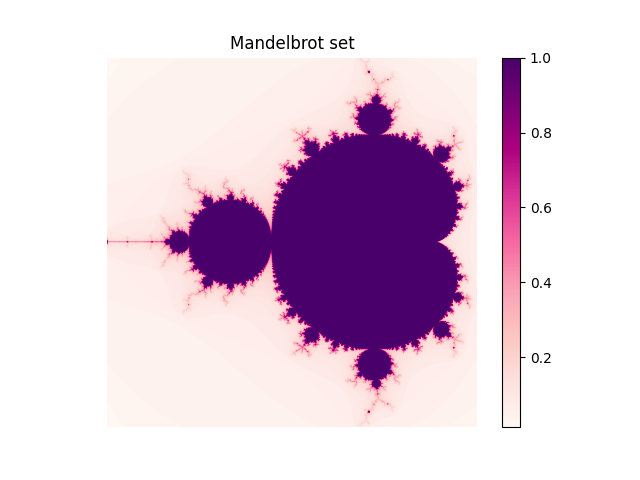
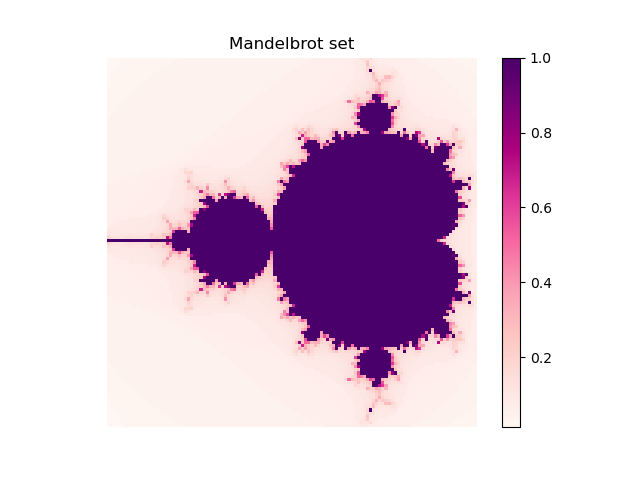
Aktualisierung der Programme in Github, Beispielbilder wurden hinzugefügt.

diff --git a/mandelbrot_scaled.py b/mandelbrot_scaled.py
@@ -1,11 +1,17 @@
 import matplotlib.pyplot as plt
 import numpy as np
+import time
+from PIL import Image as im
+
+# Programm für Darstellung des Mandelbrot-Fraktals (ggf. mit Zoom) -> wird durch 3d_mandelbrot.py genutzt
 
 bo: bool = False
+maxits: int = 20000 # optional: Legt Maximalwert für Anzahl der Iteration fest
 
 def on_ylims_change(event_ax):
-    global bo
+    global bo # Wichtig: da sonst Rekursionsfehler
     if not bo:
+        start = time.perf_counter()
         bo = True
         x = event_ax.get_xlim()
         y = event_ax.get_ylim()
@@ -18,32 +24,44 @@ def on_ylims_change(event_ax):
         mxin = man.minx
         myo = man.miny
 
-        man.minx = mxin + lengthx * minx / man.nrow
+        man.minx = mxin + lengthx * minx / man.nrow # Umwandlung von minx (Pixelwert) zu entsprechender komplexer Zahl
         man.maxx = mxin + lengthx * maxx / man.nrow
         man.miny = myo + lengthy * (man.ncol - miny) / man.ncol
         man.maxy = man.miny + man.maxx - man.minx
+
+        del myo
+        del mxin
+        del lengthx
+        del lengthy
+        del x
+        del y
+
+        man.its = man.its + 100 if man.its <= maxits else maxits # Erhöhung der Iterationsanzahl je tiefer man in das Fraktal "hineinblickt"
 
         data = man.gen()
         event_ax.set_xlim(0, man.nrow)
         event_ax.set_ylim(man.ncol, 0)
         plt.imshow(data, cmap="RdPu")
+        print(f"Time needed for image generation: {time.perf_counter() - start}s, Number of iterations used: {man.its}")
+        print(man.minx, man.maxx, man.miny, man.maxy)
 
     else:
         bo = False
 
 class Mandelbrot:
-    def __init__(self, max_iters: int=100, pixels: int=720, minx: float=-2, maxx: float=2, miny: float=-2, maxy: float=2, func = lambda x: x**2, threshold: float = 2):
+    def __init__(self, max_iters: int=100, pixels: int=1000, minx: float=-2, maxx: float=2, miny: float=-2, maxy: float=2, start_cond: float = 0, func = lambda x: x**2, threshold: float = 2):
         self.its = max_iters
         self.ncol, self.nrow = pixels, pixels
         self.minx, self.maxx, self.miny, self.maxy = minx, maxx, miny, maxy
         self.func = func
         self.t = threshold
-        
+        self.cond = start_cond
+
     def mandelbrot(self, c: complex) -> float:
-        z = c
+        z = self.cond
         for step in range(self.its):
             if abs(z) > self.t:
-                return step / self.its
+                return 0. # für Farbinterpolation: step / self.its - Für richtige Darstellung von 3d_mandelbrot.py ist hier ein return von 0 notwendig
             z = self.func(z) + c
         return 1.
 
@@ -61,21 +79,27 @@ class Mandelbrot:
             col_li = np.array(col_li)
             res.append(col_li)
 
-            # print(col) if col % 1000 == 0 else None
         return np.array(res)
 
-man = Mandelbrot()
-
 def plot():
+    start = time.perf_counter()
     data = man.gen()
+
+    # img = im.fromarray(data)
+    # img.save("mandelbrot_16_9.tiff") # speichern der Bilder als .tiff-Datei
+
     fig, ax = plt.subplots(1, 1)
 
-    plt.title("Mandelbrot set")
+    plt.title("Mandelbrot-Menge")
     color = plt.imshow(data, cmap="RdPu")
     ax.callbacks.connect('ylim_changed', on_ylims_change)
     plt.axis('off')
 
     plt.colorbar(color)
+    print(f"Time needed for image generation and saving: {time.perf_counter()-start}s, {man.its}")
+    # plt.savefig("m_zoom.png", dpi=400)
     plt.show()
+
+man = Mandelbrot()
 
 plot()

diff --git a/mandelbrot_parallel.py b/mandelbrot_parallel.py
@@ -1,0 +1,113 @@
+import matplotlib.pyplot as plt
+import numpy as np
+import time
+from PIL import Image as im
+import multiprocessing as mp
+
+# Berechnung des Mandelbrot-Fraktals für CPU mit 8 Kernen
+
+data1 = []
+data2 = []
+data3 = []
+data4 = []
+data5 = []
+data6 = []
+data7 = []
+data8 = []
+
+def mandelbrot(c, func = lambda x: x**2) -> float:
+    steps: int = 100
+    z = 0
+    for step in range(steps):
+        if abs(z) > 2:
+            return step/steps
+        z = func(z) + c
+    return 1.
+
+def gen(ncols: int, nrows: int, xmi: float, xma: float, ymi: float, yma: float, res: list) -> None:
+    im = yma
+    for col in range(ncols):
+        col_li = []
+        im -= (yma -ymi) / ncols
+        re = xmi
+        for row in range(nrows):
+            c = complex(re, im)
+            col_li.append(mandelbrot(c))
+            re += (xma - xmi) / nrows
+        col_li = np.array(col_li)
+        res.append(col_li)
+
+if __name__=="__main__":
+    # define global variables
+    minx, maxx, miny, maxy = -1.5, 0.5, -1, 1
+    pixel: int = 1024 # -> pixel % 8 = 0 (!)
+
+    dy = (maxy-miny)/8
+
+    manager = mp.Manager()
+    data1 = manager.list()
+    data2 = manager.list()
+    data3 = manager.list()
+    data4 = manager.list()
+    data5 = manager.list()
+    data6 = manager.list()
+    data7 = manager.list()
+    data8 = manager.list()
+
+    start = time.perf_counter()
+
+    task1 = mp.Process(target=gen, args=(pixel//8, pixel, minx, maxx, maxy-dy, maxy, data1,))
+    task2 = mp.Process(target=gen, args=(pixel//8, pixel, minx, maxx, maxy-2*dy, maxy-dy, data2,))
+    task3 = mp.Process(target=gen, args=(pixel//8, pixel, minx, maxx, maxy-3*dy, maxy-2*dy, data3,))
+    task4 = mp.Process(target=gen, args=(pixel//8, pixel, minx, maxx, maxy-4*dy, maxy-3*dy, data4,))
+    task5 = mp.Process(target=gen, args=(pixel//8, pixel, minx, maxx, maxy-5*dy, maxy-4*dy, data5,))
+    task6 = mp.Process(target=gen, args=(pixel//8, pixel, minx, maxx, maxy-6*dy, maxy-5*dy, data6,))
+    task7 = mp.Process(target=gen, args=(pixel//8, pixel, minx, maxx, maxy-7*dy, maxy-6*dy, data7,))
+    task8 = mp.Process(target=gen, args=(pixel//8, pixel, minx, maxx, maxy-8*dy, maxy-7*dy, data8,))
+
+    task1.start()
+    task2.start()
+    task3.start()
+    task4.start()
+    task5.start()
+    task6.start()
+    task7.start()
+    task8.start()
+
+    task1.join()
+    task2.join()
+    task3.join()
+    task4.join()
+    task5.join()
+    task6.join()
+    task7.join()
+    task8.join()
+
+    data1 = list(data1)
+    data2 = list(data2)
+    data3 = list(data3)
+    data4 = list(data4)
+    data5 = list(data5)
+    data6 = list(data6)
+    data7 = list(data7)
+    data8 = list(data8)
+
+    data = np.array(data1 + data2 + data3 + data4 + data5 + data6 + data7 + data8)
+    # print(data, data.shape)
+
+    fig, ax = plt.subplots(1, 1)
+
+    plt.title("Die Mandelbrot-Menge")
+    color = plt.imshow(data, cmap="RdPu")
+    plt.axis('off')
+    # ax.callbacks.connect('ylim_changed', on_ylims_change)
+
+    plt.colorbar(color)
+    print(f"Time needed for image generation: {time.perf_counter() - start}s")
+
+    plt.savefig("sharp_mandelbrot.png", dpi=500)
+    plt.show()
+
+    # im_data = im.fromarray(data)
+
+    # im_data.save("mandelbrot.tiff")

diff --git a/3d_mandelbrot.py b/3d_mandelbrot.py
@@ -1,0 +1,55 @@
+import numpy as np
+import matplotlib.pyplot as plt
+from matplotlib import cm
+from mandelbrot_scaled import Mandelbrot
+
+def it(z0: float, c: complex, k: int) -> float:
+    z = z0
+
+    for n in range(k):
+        if abs(z)>2:
+            return n/k
+        z = z**2+c
+
+    return 1.
+
+def gen(pix: int=50, z_min: float=-2, z_max: float=2) -> np.ndarray:
+    z_i = z_min
+    out = []
+
+    man = Mandelbrot(pixels=pix, minx=-2, maxx=2, miny=-2, maxy=2, start_cond=z_i)
+    for pz in range(pix):
+        out.append(man.gen())
+        z_i += (z_max-z_min)/pix
+        print(man.gen())
+
+        man.cond = z_i
+
+    return np.swapaxes(np.stack(out), 0, 2)
+
+pixels = 50
+x, y, z = np.indices((pixels, pixels, pixels))
+
+cube = gen(pix=pixels)
+
+colors = plt.cm.RdPu(cube)
+print(cube.shape)
+
+ax = plt.figure().add_subplot(projection='3d')
+ax.voxels(cube, facecolors=colors)
+
+ax.view_init(90, -90)
+
+ax.set_xlabel("Re(c)")
+ax.set_ylabel("Im(c)")
+ax.set_zlabel("z_0")
+
+label_all = 10 # pixels % label_all = 0, sonst: Laufzeitfehler
+
+ax.set_xticks(np.arange(0, pixels, step=label_all), labels=[round(-2+4*i/(pixels//label_all), 3) for i in range(pixels//label_all)])
+ax.set_yticks(np.arange(0, pixels, step=label_all), labels=[round(-2+4*i/(pixels//label_all), 3) for i in range(pixels//label_all)])
+ax.set_zticks(np.arange(0, pixels, step=label_all), labels=[round(-2+4*i/(pixels//label_all), 3) for i in range(pixels//label_all)])
+
+# plt.savefig("mandelbrot@3d_top.png", dpi=400)
+
+plt.show()

diff --git a/mandelbrot_old_version.py b/mandelbrot_old_version.py
@@ -1,6 +1,8 @@
 import matplotlib.pyplot as plt
 import numpy as np
 
+# erstes Programm: kein Zoom möglich
+
 steps = 75
 
 def mandelbrot(c, func = lambda x: x**2) -> float:
@@ -28,7 +30,7 @@ def gen(ncols, nrows, minx, maxx, miny, maxy) -> np.array:
         print(col) if col % 1000 == 0 else None
     return np.array(res)
 
-data = gen(120, 120, -1.75, 0.5, -1.125, 1.125)
+data = gen(1000, 1000, -1.75, 0.5, -1.125, 1.125)
 
 fig, ax = plt.subplots(1, 1)
 
@@ -37,5 +39,5 @@ color = plt.imshow(data, cmap="RdPu")
 plt.axis('off')
 
 plt.colorbar(color)
-plt.savefig("mandelbrot.png")
+# plt.savefig("mandelbrot.png")
 plt.show()
